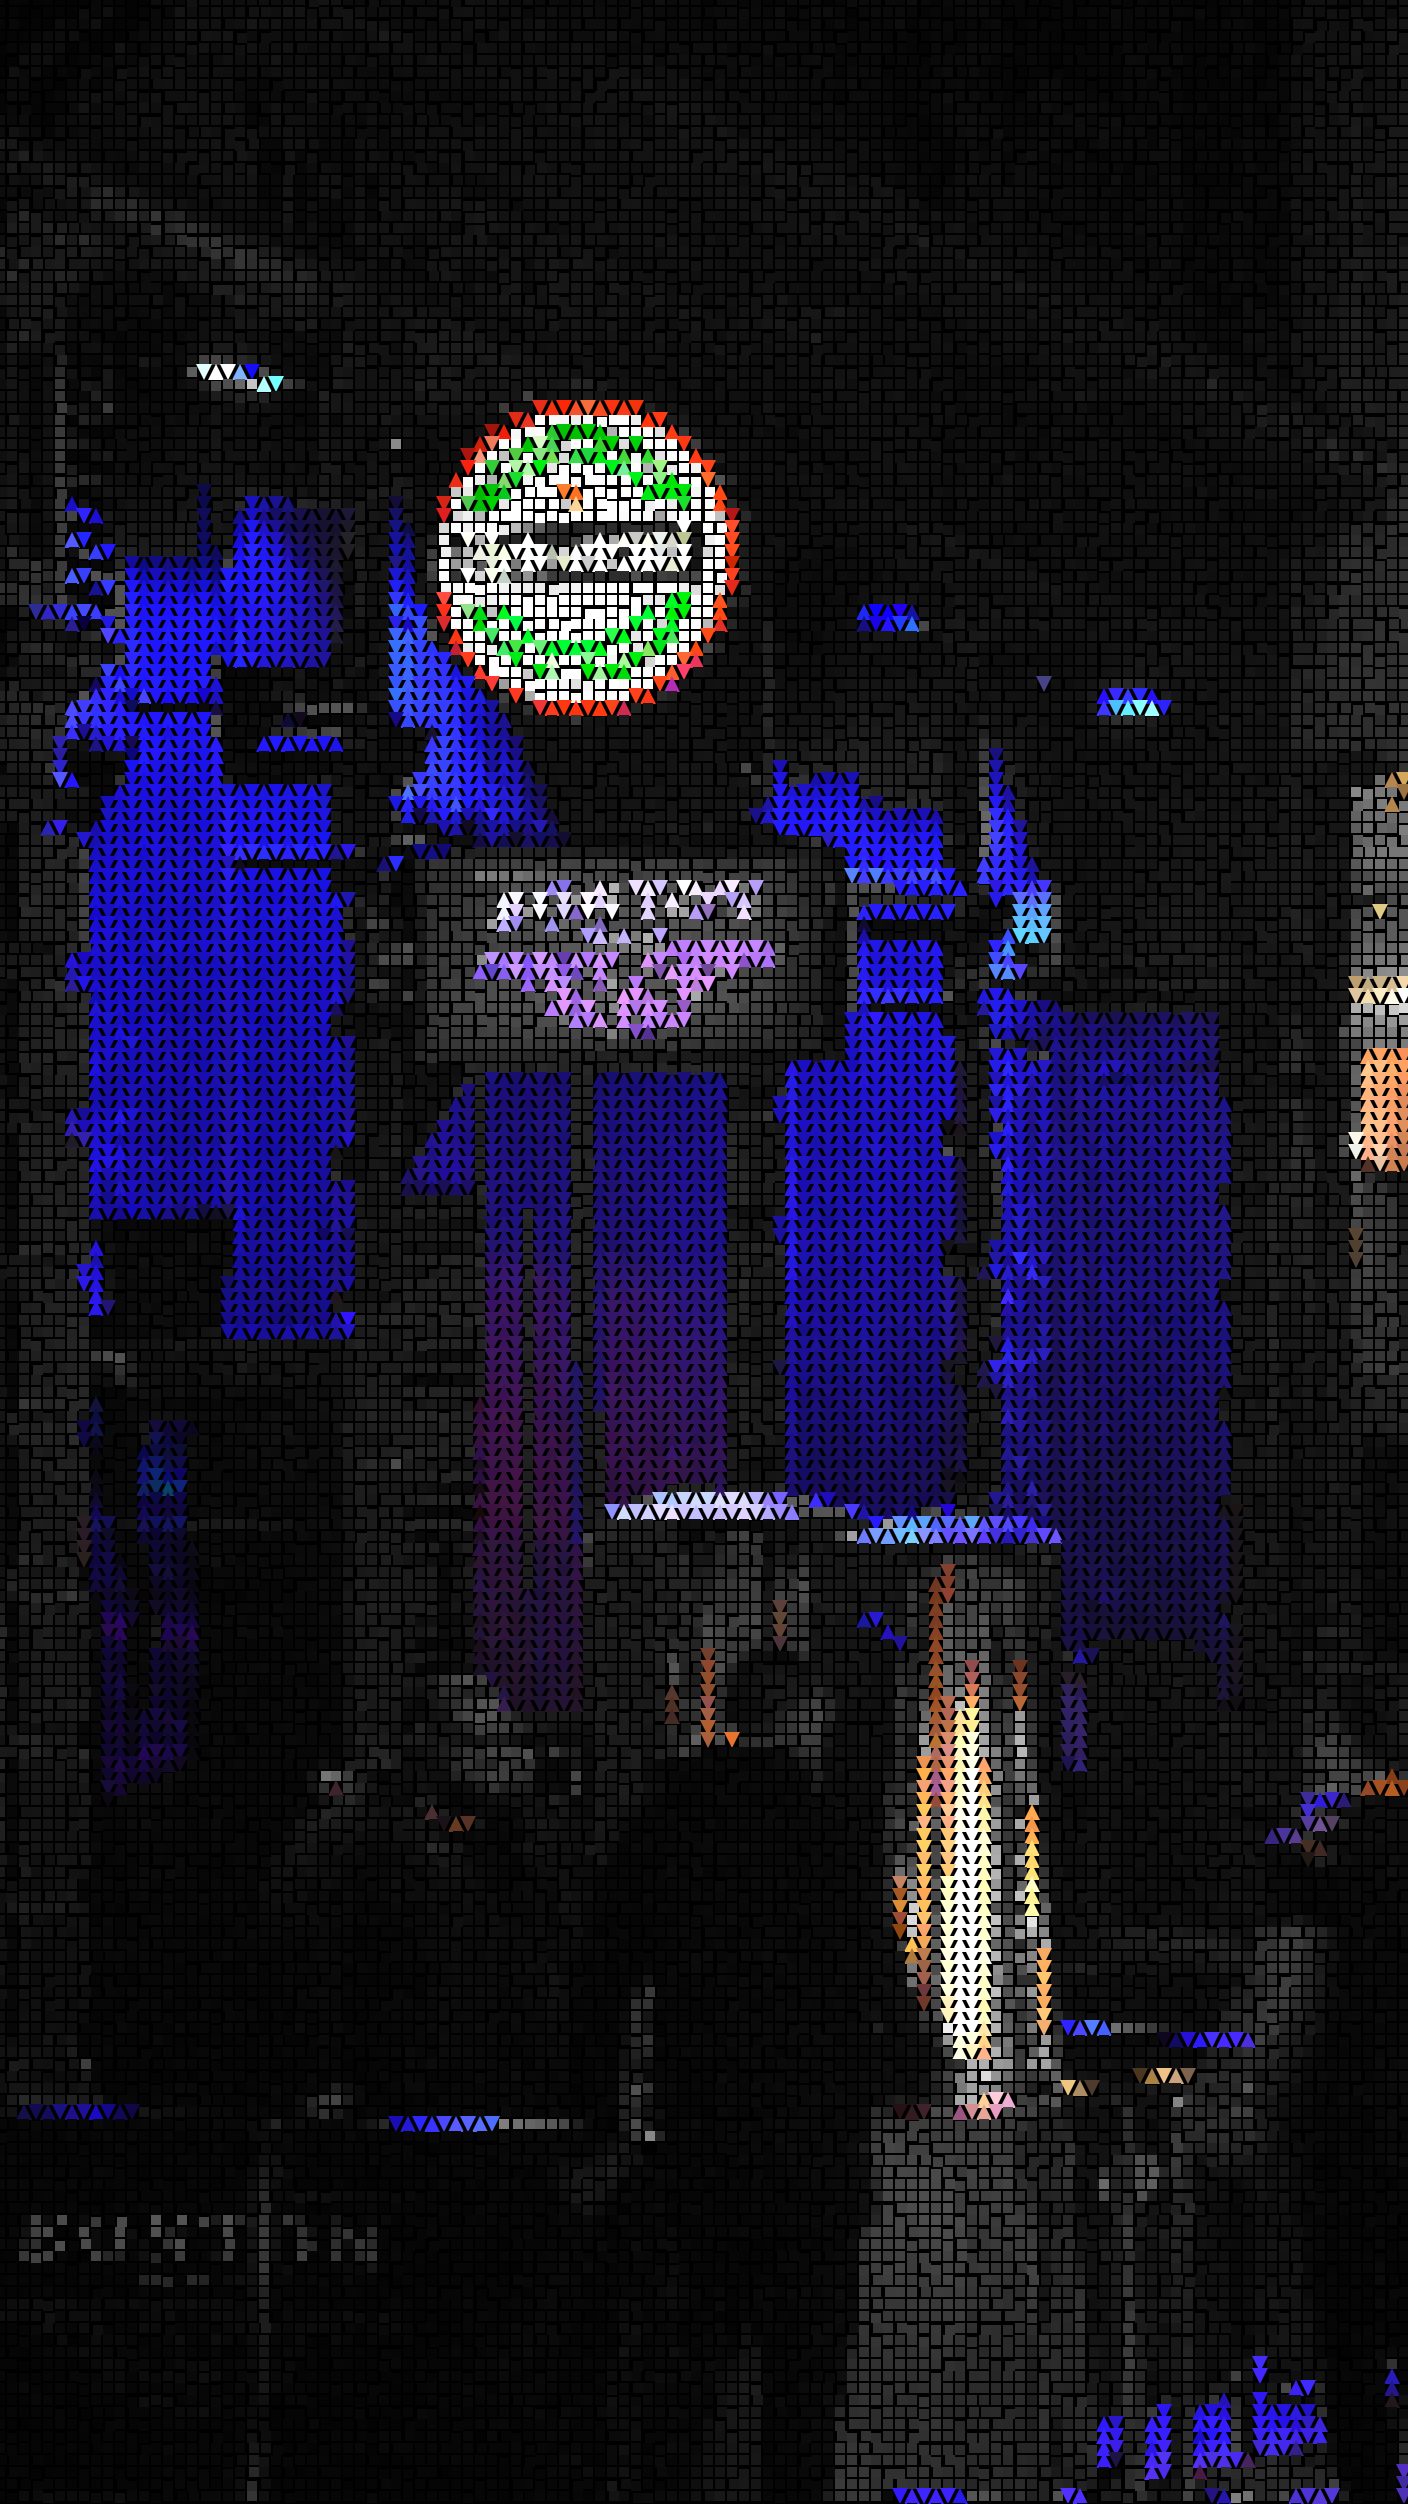
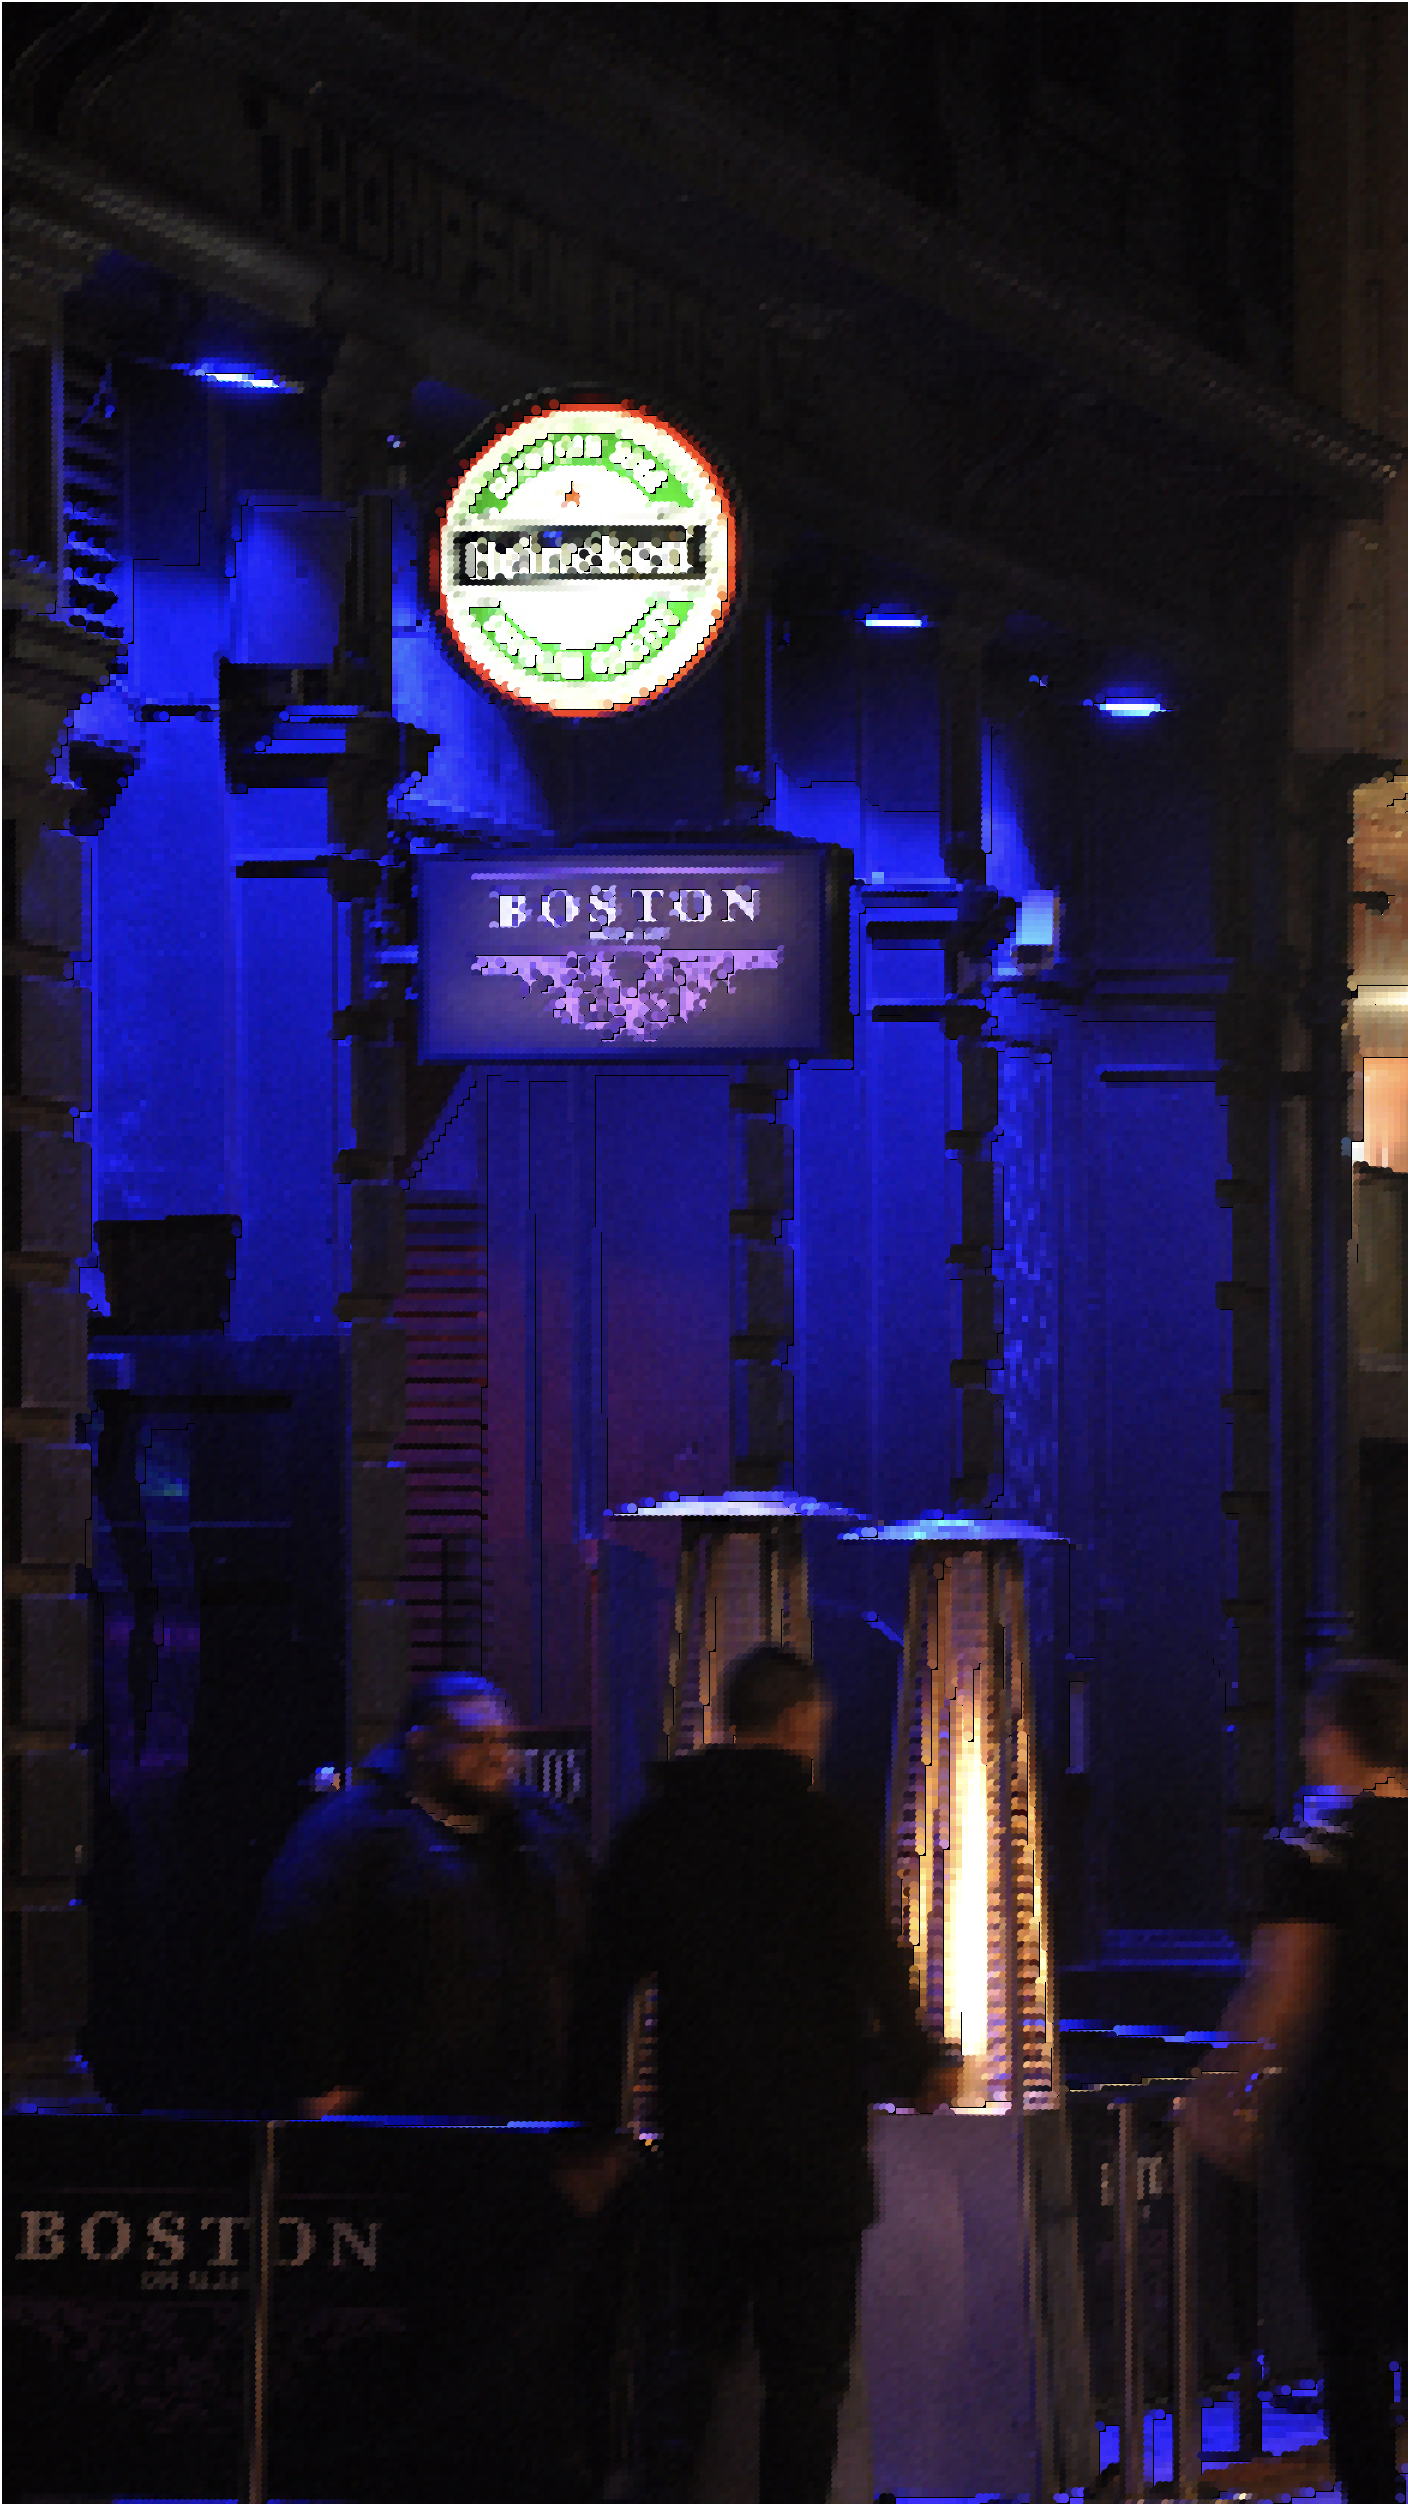
up date

diff --git a/sketch.js b/sketch.js
@@ -2,71 +2,59 @@ let sourceImg=null;
 let maskImg=null;
 let renderCounter=0;
 
-let spacing = 5; 
-let squareSize = 6; 
-let triangleSize = 6; 
-let halfSize = squareSize / 2; 
-let halfSize2 = triangleSize / 2; 
-
-let sourceFile = "input_1.jpg";
-let maskFile   = "mask_1.png";
-let outputFile = "artwork_1.png";
+let sourceFile = "input_3.jpg";
+let maskFile   = "mask_3.png";
+let outputFile = "artwork_3.png";
 
 function preload() {
-sourceImg = loadImage(sourceFile);
-maskImg = loadImage(maskFile);
-
+  sourceImg = loadImage(sourceFile);
+  maskImg = loadImage(maskFile);
 }
+
 function setup () {
   let main_canvas = createCanvas(704, 1252);
   main_canvas.parent('canvasContainer');
-  noStroke();
+
   imageMode(CENTER);
+  noStroke();
   background(0);
   sourceImg.loadPixels();
   maskImg.loadPixels();
 }
-function convertRgbToHsluv(c) {
-    return hsluv.rgbToHsluv([c[0]/255.0, c[1]/255.0, c[2]/255.0]);
-}
+
+const tile_width = 5;
+const tile_height = 5;
+const tile_step_x = 3;
+const tile_step_y = 3;
+
 function draw () {
-    for(let i=0;i<1000/spacing;i++) {
-      let x = int(i*spacing);
-      let y = int(renderCounter*spacing);
-      let pix = sourceImg.get(x, y);
-      let mask = maskImg.get(x, y);
-      if(mask[0] > 150) {
-        //highlighted areas (light areas), colored
-        fill(pix);
-        //odd line draw triangle poingting down, even line draw the other direction
-        if(i%2==0){
-          triangle(x,y-halfSize2,x-halfSize2,y+halfSize2,x+halfSize2,y+halfSize2);
-        }else{
-          triangle(x,y+halfSize2,x-halfSize2,y-halfSize2,x+halfSize2,y-halfSize2);
-        }
-      }
-      else {
-        //set ramdom x and y for rectangles
-        let dx = floor(random(spacing/5));
-        let dy = floor(random(spacing/5));
-        x = x+dx; y = y+dy;
-        //fill in black and white with lightness info
-        let hsluvColor = convertRgbToHsluv(pix);
-        fillHsluv(0,0, hsluvColor[2]);
-        rect(x-halfSize, y-halfSize, squareSize, squareSize);
-      }
+ for(let y=0; y<height; y = y + tile_step_y) {
+    for(let x=0; x<width; x = x + tile_step_x){
+    let pix = sourceImg.get(x, y);
+    let mask = maskImg.get(x, y);
+    
+
+    fill(pix);
+    if(mask[0] > 125) {
+      rect(x, y, tile_step_x, tile_step_y)    }
+    else {
+      ellipse(x, y, tile_width, tile_height);  
     }
-    renderCounter = renderCounter + 1;
-  if(renderCounter > 1920/spacing) {
-    console.log("Done!")
-    noLoop();
   }
 }
   
+
+  renderCounter = renderCounter + 1;
+  if(renderCounter > 10) {
+    console.log("Done!")
+    noLoop();
+    // uncomment this to save the result
+    // saveArtworkImage(outputFile);
+  }
+}
 
 function keyTyped() {
   if (key == '!') {
     saveBlocksImages();
   }
 }
-

diff --git a/README.md b/README.md
@@ -1,5 +1,7 @@
 ## Creative Coding 2: Custom Pixel
 
-I tred to make a picture using a pattern. Use the combination of
-squares and triangles to present Wellington's nightlife in pixels. I
-will try another method and see how it works.
+I tred again with a combination of rectangles and ellipses, and the
+results feel like real photos. When you look at it from a distance,
+you don't see any traces of modification, and there is no pixel
+effect. This is an attempt to realistically present the original
+picture.
